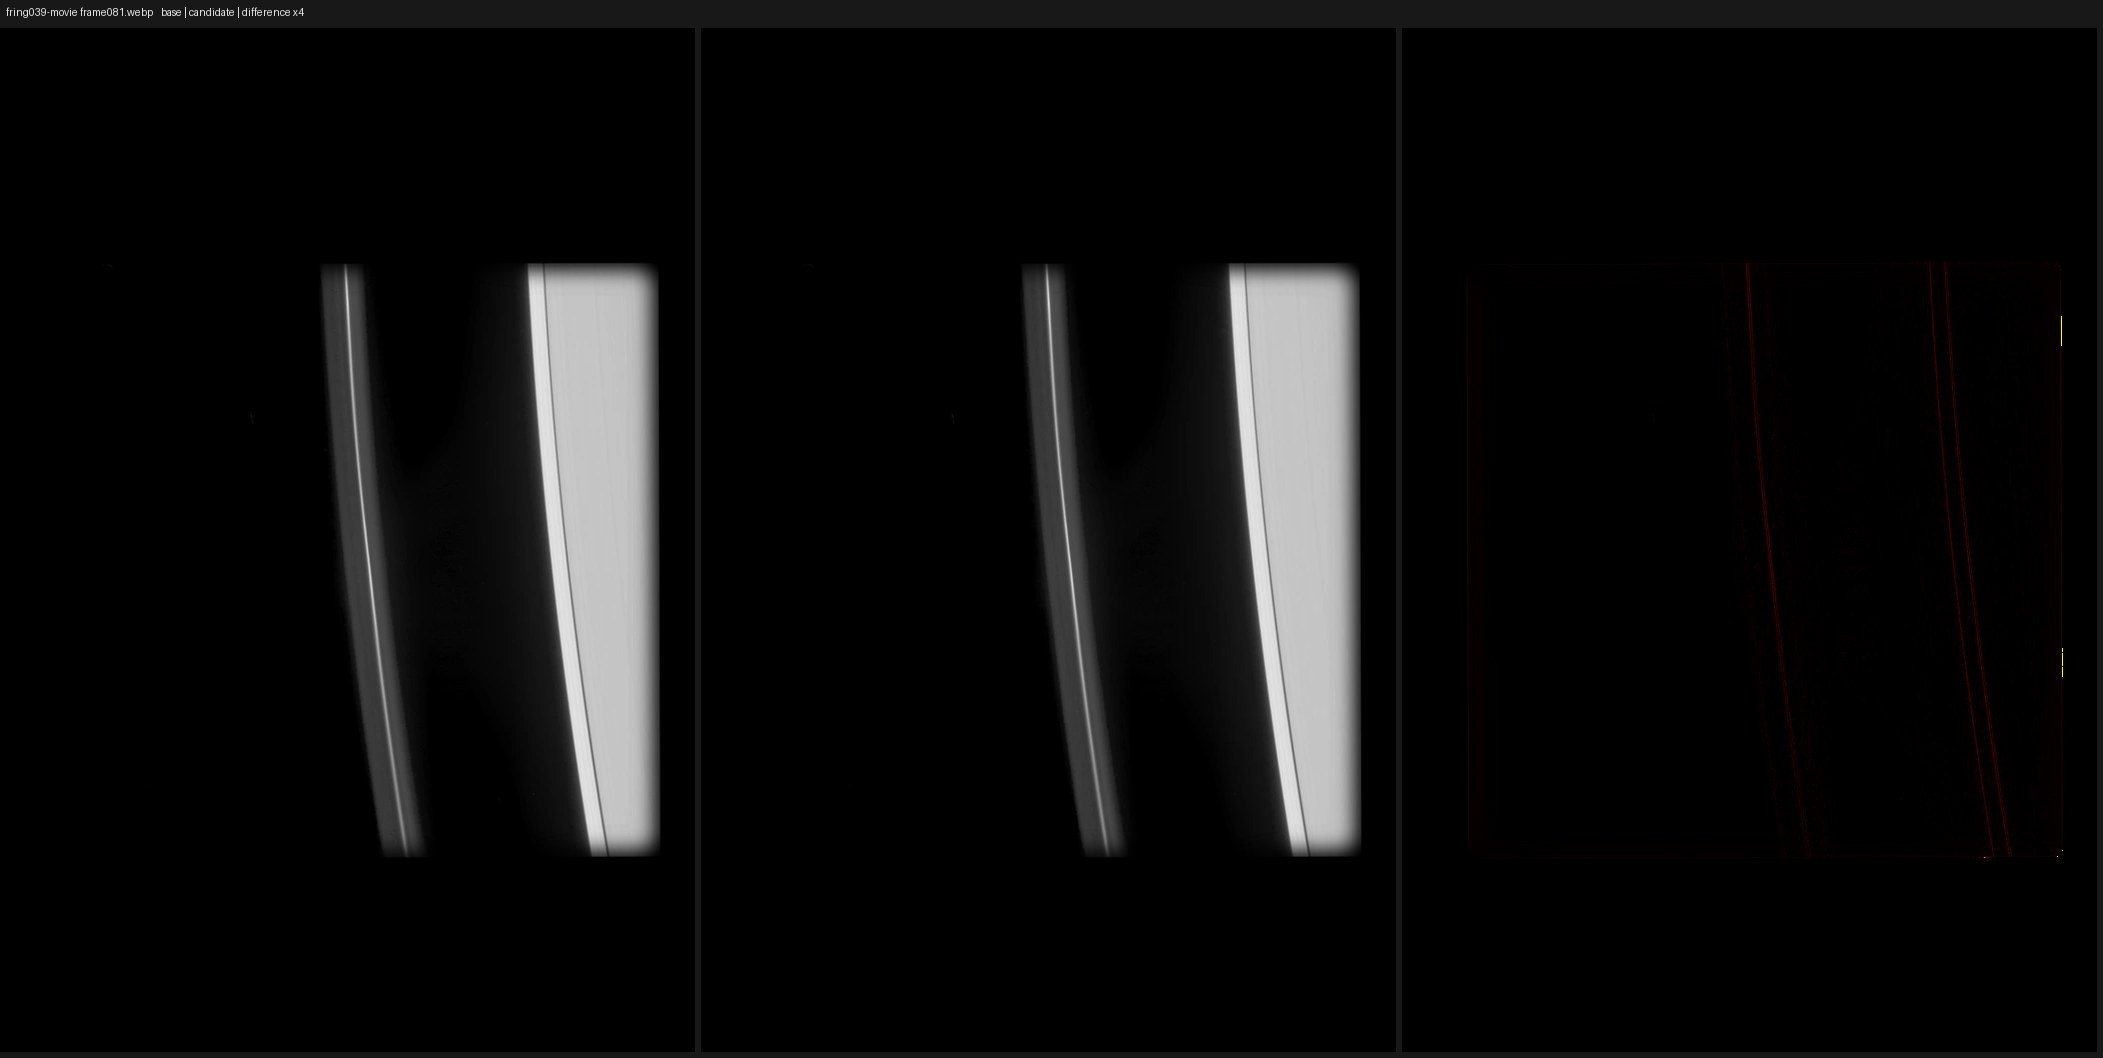
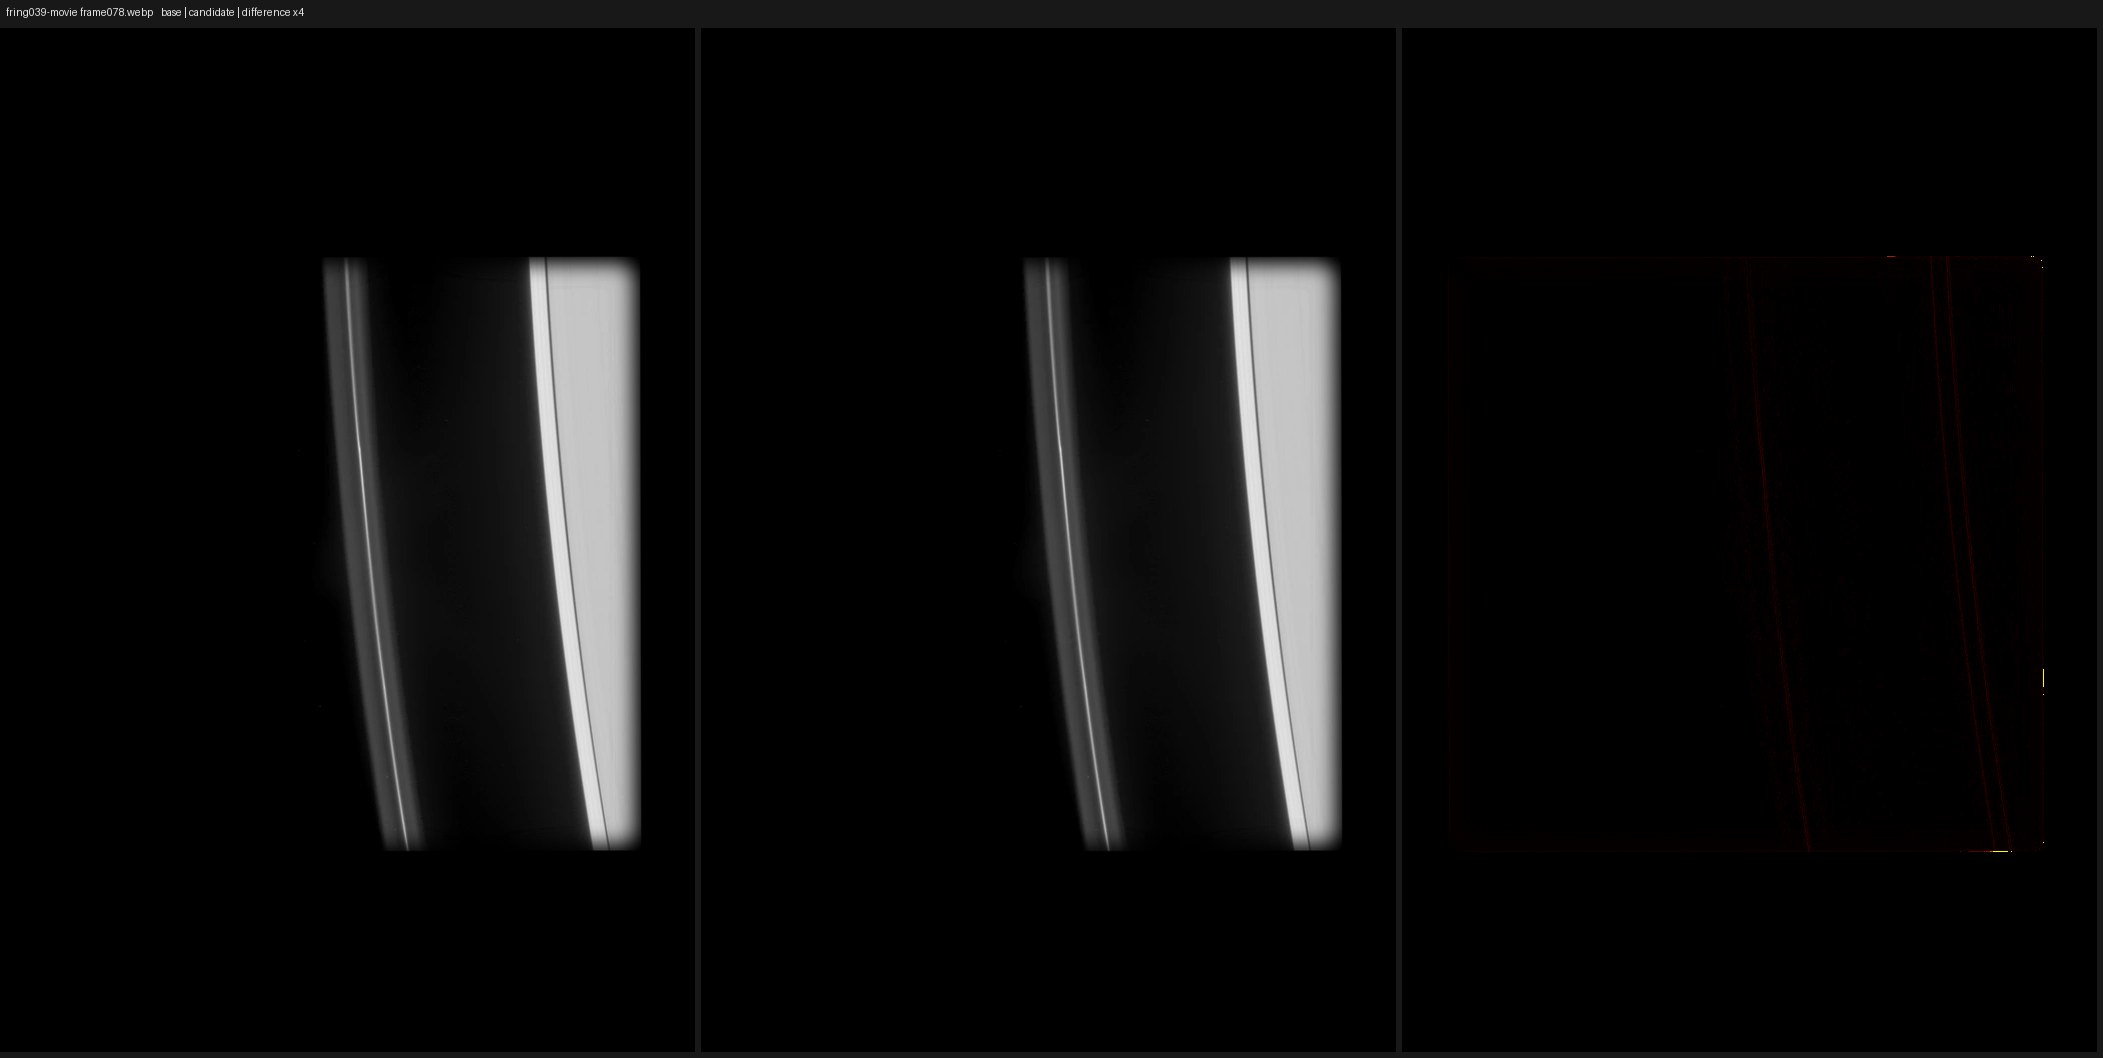
Evidence: image bench at merge time, 6613819b against main 32d3693a (NEEDS EYES; the one check regression is rz-titan13-movie2 0.6 -> 0.79 px, same to the eye)

Changed region(s): [[0.2473, 0.2183, 0.34, 0.811], [0.5873, 0.2183, 0.6491, 0.811]]

diff --git a/evidence/pointing_spot_fixes/image_bench/report.md b/evidence/pointing_spot_fixes/image_bench/report.md
@@ -1,10 +1,10 @@
-# Image benchmark: ff608e6428c6 against 9f30db6fc721
+# Image benchmark: 6613819b7a1f against 32d3693af683
 
 **NEEDS EYES**. 89 items: 60 identical, 29 changed (8 outside the target), 0 not built.
 
-- target items with a measure worse (look at them): ringmovie04-movie, titan04-composite, saturn05-movie, rx-saturn05-movie, rz-titan16-movie, rz-titan14-composite, rz-jupiter01-movie, rx-jupiter01-cruise, rz-titan15-movie3, rz-titan08-movie2, rz-titan13-movie2, rz-saturn04-movie, m-helene10-pass, fring039-movie
+- target items with a measure worse (look at them): ringmovie04-movie, titan04-composite, saturn05-movie, rx-saturn05-movie, rz-titan16-movie, rz-titan14-composite, rz-jupiter01-movie, rx-jupiter01-cruise, rz-titan15-movie3, rz-titan08-movie2, rz-titan13-movie2, rz-saturn04-movie, m-helene10-pass
 
-Built in 59 min (base) and 53 min (candidate). Targets: daphnis257n1-movie, fring039-movie, m-helene10-pass, ringmovie04-movie, rx-daphnis17-movie, rx-jupiter01-cruise, rx-saturn05-movie, rx-saturn15-movie2, rz-iapetus11-movie, rz-jupiter01-movie, rz-saturn04-movie, rz-saturn05-movie, rz-saturn11-movie3, rz-titan08-movie2, rz-titan09-movie3, rz-titan13-movie2, rz-titan14-composite, rz-titan15-movie3, rz-titan16-movie, saturn05-movie, titan04-composite.
+Built in 56 min (base) and 51 min (candidate). Targets: daphnis257n1-movie, fring039-movie, m-helene10-pass, ringmovie04-movie, rx-daphnis17-movie, rx-jupiter01-cruise, rx-saturn05-movie, rx-saturn15-movie2, rz-iapetus11-movie, rz-jupiter01-movie, rz-saturn04-movie, rz-saturn05-movie, rz-saturn11-movie3, rz-titan08-movie2, rz-titan09-movie3, rz-titan13-movie2, rz-titan14-composite, rz-titan15-movie3, rz-titan16-movie, saturn05-movie, titan04-composite.
 
 | item | group | status | pictures changed | moved >8 levels (worst) | largest change (levels) | worse by measure | note |
 |---|---|---|---|---|---|---|---|
@@ -22,7 +22,7 @@ Built in 59 min (base) and 53 min (candidate). Targets: daphnis257n1-movie, frin
 | plume279-movie | hard | identical | 0/288 | 0.00% |  |  |  |
 | plume-bloom-still | hard | identical | 0/1 | 0.00% |  |  |  |
 | approach-movie | hard | changed | 96/96 | 7.22% | 156 |  | Fable 5.2: same to the eye (11-21 sheets); Saturn colour sets: channels the pictures placed keep their own places (camera drift between filters out); thin lines along ring edges and limb only |
-| ringmovie04-movie | target | changed | 44/44 | 39.91% | 255 | frame019.webp: 0.78% of the base's light now black; frame019.webp: lit area's centre moved 13 px | ring movie: steadied on the rings' lit edges (steady9); watched for jitter |
+| ringmovie04-movie | target | changed | 44/44 | 40.06% | 255 | frame000.webp: 0.58% of the base's light now black; frame000.webp: lit area's centre moved 13 px | ring movie: steadied on the rings' lit edges (steady9); watched for jitter |
 | telesto-composite | hard | identical | 0/1 | 0.00% |  |  |  |
 | moon99-composite | plain | identical | 0/1 | 0.00% |  |  |  |
 | venus99-still | plain | identical | 0/1 | 0.00% |  |  |  |
@@ -69,7 +69,7 @@ Built in 59 min (base) and 53 min (candidate). Targets: daphnis257n1-movie, frin
 | titan08-mt1 | hard | identical | 0/1 | 0.00% |  |  |  |
 | rings08-bright | hard | identical | 0/1 | 0.00% |  |  |  |
 | mimas04-movie | hard | changed | 46/46 | 0.00% | 10 |  | Fable 5.2: same to the eye (11-21 sheets); colour-set channel placement (channel_registration 1.82 -> 1.11 px) |
-| saturn07-fullblack-movie | hard | changed | 44/144 | 0.69% | 255 | frame077.webp: 0.20% of the base's light now black | Fable 5.2: same to the eye (11-21 sheets); F ring movie: ring frames steadied on lit edges (steady9); a 1 px move of the picture's right edge |
+| saturn07-fullblack-movie | hard | changed | 48/144 | 0.17% | 255 |  | Fable 5.2: same to the eye (11-21 sheets); F ring movie: ring frames steadied on lit edges (steady9); a 1 px move of the picture's right edge |
 | saturn08w-fullblack-movie | hard | identical | 0/16 | 0.00% |  |  |  |
 | saturn13-fullblack-movie | hard | identical | 0/61 | 0.00% |  |  |  |
 | saturn08-fullblack-movie | hard | identical | 0/84 | 0.00% |  |  |  |
@@ -79,7 +79,7 @@ Built in 59 min (base) and 53 min (candidate). Targets: daphnis257n1-movie, frin
 | rz-titan16-movie | target | changed | 22/22 | 17.22% | 108 | evened000.webp: clipped 3.41% -> 5.13% | Titan 2016: BL1 match stands over Titan's blue-haze limb (C8 _limb_register); no opposite-colour rims |
 | rz-titan14-composite | target | changed | 1/1 | 69.94% | 255 | composite.webp: 81.67% of the base's light now black; composite.webp: lit area's centre moved 381 px; composite.webp: lit share 38.0% -> 23.9% | C8: BL1's phase match now stands over Titan's haze limb, so the channels overlap fully: base drew colour only where they overlapped (x 0-646 of 1024, a hard cut through Titan); now the whole picture is drawn (x 13-1023) and Titan sits at its right edge, where the camera's own frame has it (the view is the frame's footprint: a body its frames cut is not centred, unchanged rule); 13 px at the left are outside one channel |
 | rz-iapetus11-movie | target | changed | 52/52 | 0.12% | 35 |  | #606's blue 0.3 px offset gone (channel_registration back to 0.05) |
-| rz-jupiter01-movie | target | changed | 28/28 | 30.85% | 220 | evened000.webp: 0.60% of the base's light now black; evened000.webp: lit area's centre moved 10 px | 1x2 mosaic played as a movie (mosaic thread); lit-edge steadying moves the picture ~10 px, no defect added |
+| rz-jupiter01-movie | target | changed | 28/28 | 30.85% | 217 | evened000.webp: 0.54% of the base's light now black; evened000.webp: lit area's centre moved 10 px | 1x2 mosaic played as a movie (mosaic thread); lit-edge steadying moves the picture ~10 px, no defect added |
 | rx-jupiter01-cruise | target | changed | 28/28 | 17.27% | 219 | evened001.webp: 0.82% of the base's light now black; evened001.webp: detail 0.2651 -> 0.3264 (+23%); evened001.webp: lit area's centre moved 9 px | 1x2 mosaic played as a movie (mosaic thread); lit-edge steadying moves the picture ~9 px, no defect added |
 | rz-titan15-movie3 | target | changed | 10/10 | 32.40% | 255 | frame008.webp: 0.27% of the base's light now black; frame008.webp: lit area's centre moved 8 px | Titan 213TI: jitter 5.8 -> 0 px (lit-edge steadying) |
 | rz-titan08-movie2 | target | changed | 12/12 | 5.65% | 104 | frame001.webp: 0.41% of the base's light now black | Titan 059TI: jitter 3.7 -> 1.6 px (lit-edge steadying) |
@@ -94,32 +94,36 @@ Built in 59 min (base) and 53 min (candidate). Targets: daphnis257n1-movie, frin
 | npole0908-mosaicmovie | hard | identical | 0/1 | 0.00% |  |  |  |
 | encset293-movie | hard | identical | 0/48 | 0.00% |  |  |  |
 | daphnis257n1-movie | target | changed | 34/34 | 0.01% | 11 |  | Daphnis fix kept (SET_APART); no change expected |
-| fring039-movie | target | changed | 44/144 | 0.69% | 255 | frame077.webp: 0.20% of the base's light now black | F ring movie: watched, no change expected |
+| fring039-movie | target | changed | 48/144 | 0.17% | 255 |  | F ring movie: watched, no change expected |
 | fring183-movie | hard | identical | 0/61 | 0.00% |  |  | F ring movie: watched; unchanged is the expected result (no defect to fix) |
-| titancloud264-movie | hard | changed | 104/104 | 0.33% | 37 | evened016.webp: clipped 10.60% -> 11.02%; evened018.webp: detail 0.0296 -> 0.0354 (+20%) | Fable 5.2: same to the eye (11-21 sheets); Titan steadied on its lit limb (steady9); cloud field unchanged; clipping change is per-frame exposure evening of the moved frames |
+| titancloud264-movie | hard | changed | 104/104 | 0.27% | 42 | evened016.webp: clipped 10.51% -> 10.82%; evened016.webp: detail 0.0288 -> 0.0356 (+24%) | Fable 5.2: same to the eye (11-21 sheets); Titan steadied on its lit limb (steady9); cloud field unchanged; clipping change is per-frame exposure evening of the moved frames |
 
 Sheets: `sheets/<item>.jpg` (base | candidate | difference x4, with 1:1 crops of the place that changed most).
 
 ## Checks
 
-1 regressions, 3 fixed, 19 known (failing on the base too), 0 errors. A known failure is a defect already on the base; it does not fail this run, and a fix should turn it into fixed.
+1 regressions, 3 fixed, 25 known (failing on the base too), 0 errors. A known failure is a defect already on the base; it does not fail this run, and a fix should turn it into fixed.
 
 | item | check | verdict | base | candidate | what |
 |---|---|---|---|---|---|
 | plume279-movie | full_black | known | 24.85 | 24.85 (limit 20.0) | black sky lost at Full: up to 25 points (40% of frame287.webp black at Processed, 15% at Full; 1 of 16 frames over 20) |
-| plume279-movie | odd_frame | known | 13.5034 | 13.5034 (limit 4.0) | worst 13.5 at frame088.webp (100 of 286 frames over 4.0) |
-| ringmovie04-movie | pointing_jitter | known | 15.0089 | 5.285 (limit 3.0) | frame-to-frame jump past the movie's own motion: p90 5.3 px, largest 6.5 px (34 pairs) |
+| plume279-movie | odd_frame | known | 14.0524 | 14.0524 (limit 4.0) | worst 14.1 at frame074.webp (100 of 286 frames over 4.0) |
+| ringmovie04-movie | full_black | known | 25.29 | 25.18 (limit 20.0) | black sky lost at Full: up to 25 points (82% of frame006.webp black at Processed, 57% at Full; 5 of 16 frames over 20) |
+| ringmovie04-movie | pointing_jitter | known | 14.836 | 6.3178 (limit 3.0) | frame-to-frame jump past the movie's own motion: p90 6.3 px, largest 8.7 px (33 pairs) |
 | methone-movie | odd_frame | known | 4.1083 | 4.0337 (limit 4.0) | worst 4.0 at frame010.webp (1 of 1 frames over 4.0) |
 | daphnis17-movie | odd_frame | known | 118.1355 | 118.1355 (limit 4.0) | worst 118.1 at frame008.webp (2 of 9 frames over 4.0) |
 | impact293-movie | odd_frame | known | 18.0219 | 18.0219 (limit 4.0) | worst 18.0 at frame007.webp (1 of 2 frames over 4.0) |
 | mimas04-movie | channel_registration | known | 1.824 | 1.11 (limit 0.7) | red or blue channel off green: p90 1.11 px, largest 2.59 px (23 colour frames) |
 | mimas04-movie | odd_frame | known | 4.3576 | 4.2752 (limit 4.0) | worst 4.3 at frame018.webp (1 of 9 frames over 4.0) |
+| saturn07-fullblack-movie | full_black | known | 30.05 | 30.05 (limit 20.0) | black sky lost at Full: up to 30 points (78% of frame029.webp black at Processed, 48% at Full; 16 of 16 frames over 20) |
+| saturn08w-fullblack-movie | full_black | known | 22.01 | 22.01 (limit 20.0) | black sky lost at Full: up to 22 points (56% of frame002.webp black at Processed, 34% at Full; 2 of 16 frames over 20) |
+| saturn08-fullblack-movie | full_black | known | 21.9 | 21.9 (limit 20.0) | black sky lost at Full: up to 22 points (74% of frame025.webp black at Processed, 52% at Full; 3 of 16 frames over 20) |
 | pan09-banding-movie | full_banding | known | 7.239 | 7.239 (limit 1.0) | Full sky banding up to 7.24 levels where Processed has black sky (5 of 5 frames over 1.0) |
 | rx-saturn15-movie2 | full_banding | known | 3.242 | 3.22 (limit 1.0) | Full sky banding up to 3.22 levels where Processed has black sky (14 of 14 frames over 1.0) |
 | rx-saturn15-movie2 | odd_frame | known | 18.3895 | 17.8528 (limit 4.0) | worst 17.9 at frame015.webp (1 of 4 frames over 4.0) |
 | rz-titan16-movie | channel_registration | known | 8.35 | 4.57 (limit 0.7) | red or blue channel off green: p90 4.57 px, largest 4.57 px (11 colour frames) |
-| rz-jupiter01-movie | pointing_jitter | known | 11.3946 | 10.4991 (limit 3.0) | frame-to-frame jump past the movie's own motion: p90 10.5 px, largest 55.4 px (13 pairs) |
-| rx-jupiter01-cruise | pointing_jitter | known | 11.8181 | 10.6711 (limit 3.0) | frame-to-frame jump past the movie's own motion: p90 10.7 px, largest 61.3 px (13 pairs) |
+| rz-jupiter01-movie | pointing_jitter | known | 11.3942 | 10.5005 (limit 3.0) | frame-to-frame jump past the movie's own motion: p90 10.5 px, largest 55.4 px (13 pairs) |
+| rx-jupiter01-cruise | pointing_jitter | known | 11.8175 | 10.6716 (limit 3.0) | frame-to-frame jump past the movie's own motion: p90 10.7 px, largest 61.3 px (13 pairs) |
 | rz-titan15-movie3 | pointing_jitter | fixed | 5.7839 | 0.0 (limit 3.0) | frame-to-frame jump past the movie's own motion: p90 0.0 px, largest 0.0 px (6 pairs) |
 | rz-titan08-movie2 | pointing_jitter | fixed | 3.7463 | 1.6054 (limit 3.0) | frame-to-frame jump past the movie's own motion: p90 1.6 px, largest 2.6 px (11 pairs) |
 | rz-saturn11-movie3 | channel_registration | fixed | 0.76 | 0.69 (limit 0.7) | red or blue channel off green: p90 0.69 px, largest 0.69 px (10 colour frames) |
@@ -127,5 +131,7 @@ Sheets: `sheets/<item>.jpg` (base | candidate | difference x4, with 1:1 crops of
 | rz-saturn04-movie | channel_registration | known | 1.074 | 1.05 (limit 0.7) | red or blue channel off green: p90 1.05 px, largest 1.11 px (119 colour frames) |
 | rz-saturn04-movie | odd_frame | known | 7.6083 | 7.7572 (limit 4.0) | worst 7.8 at frame010.webp (1 of 21 frames over 4.0) |
 | rz-titan09-movie3 | channel_registration | known | 3.01 | 3.05 (limit 0.7) | red or blue channel off green: p90 3.05 px, largest 3.05 px (11 colour frames) |
-| fring274-movie | pointing_jitter | known | 7.3218 | 7.3218 (limit 3.0) | frame-to-frame jump past the movie's own motion: p90 7.3 px, largest 137.5 px (149 pairs) |
-| titancloud264-movie | channel_registration | known | 1.489 | 1.48 (limit 0.7) | red or blue channel off green: p90 1.48 px, largest 1.55 px (52 colour frames) |
+| fring274-movie | full_black | known | 32.91 | 32.91 (limit 20.0) | black sky lost at Full: up to 33 points (64% of frame023.webp black at Processed, 31% at Full; 10 of 16 frames over 20) |
+| fring274-movie | pointing_jitter | known | 5.8112 | 5.8112 (limit 3.0) | frame-to-frame jump past the movie's own motion: p90 5.8 px, largest 136.4 px (151 pairs) |
+| fring039-movie | full_black | known | 30.05 | 30.05 (limit 20.0) | black sky lost at Full: up to 30 points (78% of frame029.webp black at Processed, 48% at Full; 16 of 16 frames over 20) |
+| titancloud264-movie | channel_registration | known | 1.43 | 1.469 (limit 0.7) | red or blue channel off green: p90 1.47 px, largest 1.50 px (52 colour frames) |
